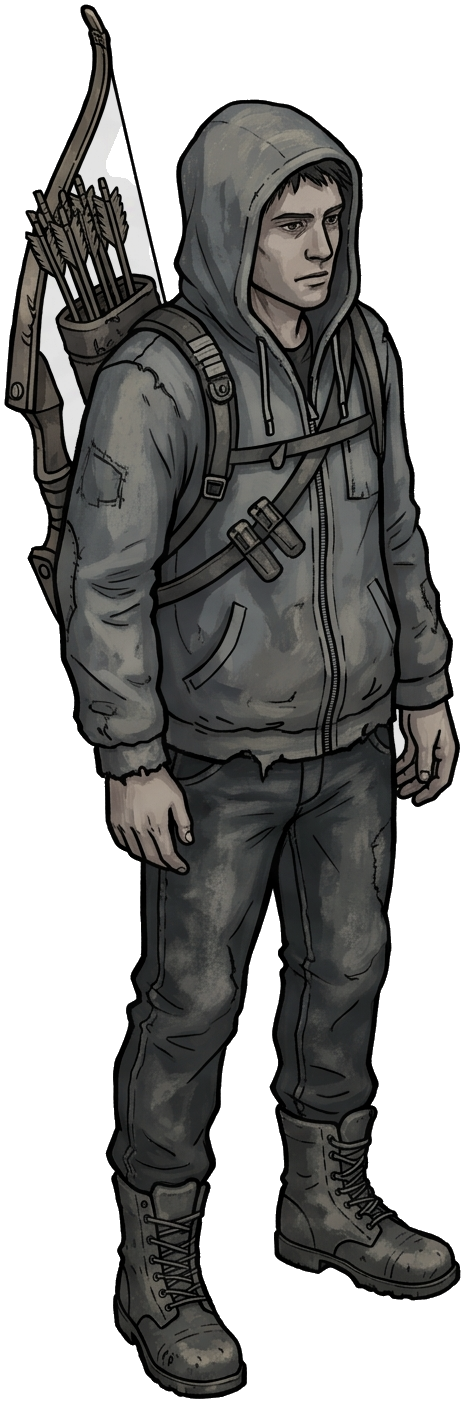
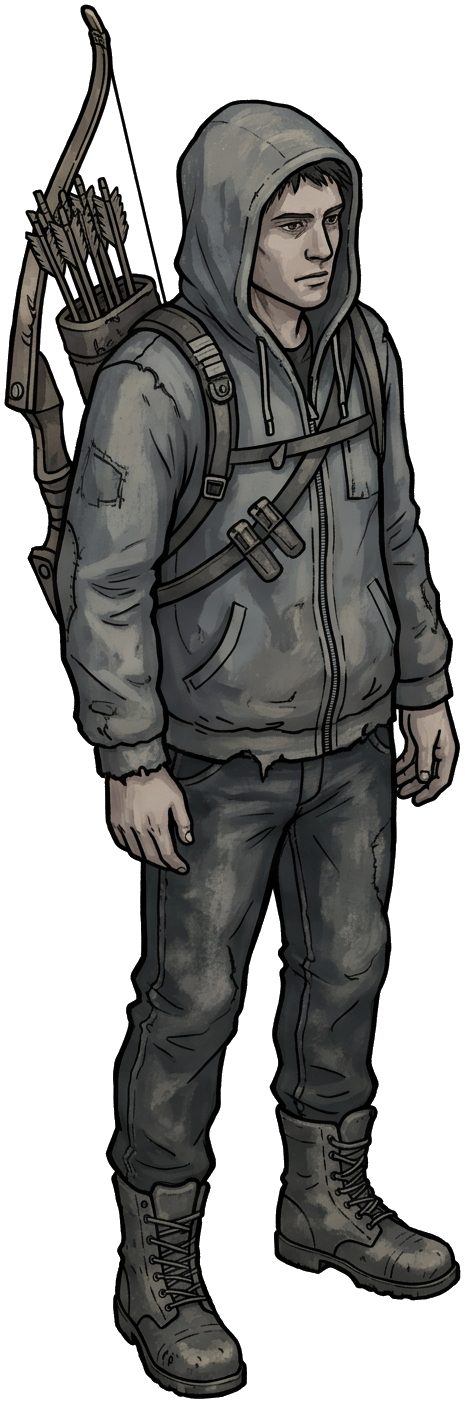
Fix sprite white artifacts, add Gemini car sprites
- process_sprite.mjs: optional global white strip pass (strip=1) for dark
  objects without intentional white details; survivor quiver/shoulder and
  dead-tree branch pockets cleaned (whiteOpaque 0.66%->0, 0.26%->0)
- survivor re-brightened (0.95/0.8)
- New Gemini sprites: rusty sedan, burned wreck, GAZelle van
  (3/4 top view, facing left) -> cars in the city render as sprites with
  heading rotation; procedural boxes remain as fallback

Changed region(s): [[0.1806, 0.0613, 0.3613, 0.2145], [0.0903, 0.1839, 0.2108, 0.3371], [0.843, 0.521, 0.8731, 0.5517]]

diff --git a/src/iso/render/renderer.js b/src/iso/render/renderer.js
@@ -264,23 +264,40 @@ export function renderWorld({
     push(car.x + w + (car.y + h), 1, () => {
       // центр машины на экране, поворот по курсу (изо-проекция вектора курса)
       const p = w2s(car.x + w / 2, car.y + h / 2);
+      const img = car.wreck
+        ? SPRTEX.car_wreck
+        : i % 3 === 2
+          ? SPRTEX.car_van
+          : SPRTEX.car_sedan;
       ctx.save();
       ctx.translate(toX(p.x), toY(p.y));
       if (car.heading !== undefined) {
-        const base =
-          car.axis === "x" ? Math.atan2(16, 32) : Math.atan2(16, -32);
         const vx = Math.cos(car.heading),
           vy = Math.sin(car.heading);
         const sAng = Math.atan2((vx + vy) * 16, (vx - vy) * 32);
-        ctx.rotate(sAng - base);
+        // спрайты Gemini смотрят влево; процедурная коробка — по базовой оси
+        ctx.rotate(
+          sAng -
+            (img
+              ? Math.PI
+              : car.axis === "x"
+                ? Math.atan2(16, 32)
+                : Math.atan2(16, -32)),
+        );
       }
-      ctx.drawImage(
-        SPR.cars[i],
-        -112 * zoom,
-        -85 * zoom,
-        224 * zoom,
-        170 * zoom,
-      );
+      if (img) {
+        const wpx = 170 * zoom,
+          hpx = wpx * (img.height / img.width);
+        ctx.drawImage(img, -wpx / 2, -hpx / 2, wpx, hpx);
+      } else {
+        ctx.drawImage(
+          SPR.cars[i],
+          -112 * zoom,
+          -85 * zoom,
+          224 * zoom,
+          170 * zoom,
+        );
+      }
       ctx.restore();
       R.drawCalls++;
     });

diff --git a/src/iso/render/assets.js b/src/iso/render/assets.js
@@ -26,6 +26,9 @@ export const SPRITE_FILES = {
   dumpster: "/assets/gen/dumpster.png",
   tires: "/assets/gen/tires.png",
   barrel: "/assets/gen/barrel.png",
+  car_sedan: "/assets/gen/car_sedan.png",
+  car_wreck: "/assets/gen/car_wreck.png",
+  car_van: "/assets/gen/car_van.png",
 };
 
 function loadSet(files, target) {

diff --git a/REFACTORING_PLAN.md b/REFACTORING_PLAN.md
@@ -242,7 +242,7 @@ zombie/
 - [x] 16.1 Прототип изометрического рендера (`prototype/`): тайл 64×32 = 1 м², чанки земли 8×8 тайлов, спрайты зданий с запечёнными текстурами/окнами, z-сортировка по `max(wx+wy)` футпринта, cutaway здания при входе, ночное освещение half-res с эллипсами 2:1. Замер FPS и бюджета кадра. → Кадр 0,3–6 мс при ~150 drawImage, 60 FPS, запас большой.
 - [x] 16.2 Генератор компактного города (в `prototype/iso.js`, сид `?seed=`, размер `?nb=`): сетка кварталов 62 м + дорога 8 м + тротуары 3 м, периметральная застройка из типовых архетипов (панель 2–3 эт., кирпич, магазин, киоск), дворы с площадками/парковкой/рабицей, уличные машины, фонари, зомби. POI-кварталы: парк, супермаркет с парковкой, школа со спортплощадкой, больница, полиция, АЗС. Город 1458×1458 м (19×19 кварталов, 1434 здания): старт 105 мс, кадр 1,2 мс, чанки с отсевом до запечки + LRU 600, твёрдые тела в пространственной сетке 16 м, дальние зомби спят.
 - [x] 16.3 Ассет-пайплайн: ~~разведка Kenney~~ → вердикт 16.11.2026: миниатюрный «игрушечный» стиль (тайлы 132×101 с толстыми блоками, здания-игрушки), для PZ-подобного масштаба не подходит; CC0 проверен. Gemini UI по `GEMINI_IMAGE_AUTOMATION.md`: `.cache/gemini-ui/generate.mjs` (одна генерация = один чат, метаданные), `batch.mjs`/`batch_sprites.mjs` (серии), `process_texture.mjs` (кроп → 512² PNG), `process_sprite.mjs` (flood fill фона с краёв + вынос белых карманов + modulate в палитру). Сгенерированы 8 текстур (асфальт, трава, грунт, тротуар, паркет, панель, кирпич, рубероид) и 9 спрайтов (тополь, мёртвое дерево, берёза, зомби, выживший, скамейка, контейнер, покрышки, бочка). В прототипе: бесшовная 2×2 зеркальная композиция, сплошная заливка земли текстурами 32 px/м, текстурные стены/крыши, спрайты с якорем низ-центр. - [ ] 16.3b Спрайты: белые артефакты у героя/деревьев (остатки фона снаружи и «карманы» внутри силуэта). **17.11: всё ещё присутствуют — у героя (плечо/колчан) и деревьев точно.** Решение: улучшить `process_sprite.mjs` (мягче порог карманов + ретушь краёв), перегенерировать безнадёжные. Плюс: машины, анимация ходьбы, квантование в мастер-палитру 32 цвета.
-- [ ] 16.4 Перенос игры на iso-рендер: решено — НОВАЯ игра на базе прототипа, старая остаётся на index.html до паритета. Сделано: `city.html` + модульный каркас `src/iso/`. Город 1,46 км, multi-page сборка и деплой. Бой заново (лук с натяжением, сегментный хит-тест, HP/смерть, укусы, кровь, трупы, тряска, возрождение). Лут/инвентарь заново: рюкзак 24 слота со стаками, мусорки/бочки с сидовым лутом, обыск по E, **действия предмета по клику на ячейку** (съесть/перевязать/выбросить), стрелы — расходник. Выживание заново: часы, рассвет/закат, ночное освещение от часов, голод и голодный урон, тушёнка/бинт, ночной приток зомби, ночью быстрее ×1,35. Крафт заново: панель на C, рецепты данными (`src/iso/data/recipes.js`): стрелы (дерево+лом), бинт (ткань×2), факел (дерево+ткань). Спавн безопасен 60 м. Дальше: машины → баланс → NPC/лагеря. Сохранения: `src/iso/persistence/save.js`, схема v2 (квесты; миграция из v1), автосейв 15 с, `?new=1` — новая игра. Квесты: `src/iso/data/quests.js` + `src/iso/systems/quests.js` — цепочка m1–m5 к POI (события kill/loot/visit, награды, маркер цели).
+- [ ] 16.4 Перенос игры на iso-рендер: решено — НОВАЯ игра на базе прототипа, старая остаётся на index.html до паритета. Сделано: `city.html` + модульный каркас `src/iso/`. Город 1,46 км, multi-page сборка и деплой. Бой заново (лук с натяжением, сегментный хит-тест, HP/смерть, укусы, кровь, трупы, тряска, возрождение). Лут/инвентарь заново: рюкзак 24 слота со стаками, мусорки/бочки с сидовым лутом, обыск по E, **действия предмета по клику на ячейку** (съесть/перевязать/выбросить), стрелы — расходник. Выживание заново: часы, рассвет/закат, ночное освещение от часов, голод и голодный урон, тушёнка/бинт, ночной приток зомби, ночью быстрее ×1,35. Крафт заново: панель на C, рецепты данными (`src/iso/data/recipes.js`): стрелы (дерево+лом), бинт (ткань×2), факел (дерево+ткань). Спавн безопасен 60 м. Дальше: баланс → NPC/лагеря → интерьеры зданий. Сохранения: `src/iso/persistence/save.js`, схема v2 (квесты; миграция из v1), автосейв 15 с, `?new=1` — новая игра. Квесты: `src/iso/data/quests.js` + `src/iso/systems/quests.js` — цепочка m1–m5 к POI (события kill/loot/visit, награды, маркер цели). Машины: `src/iso/systems/vehicles.js` — посадка E, газ/руль WASD, бак в литрах, заправка F из инвентаря, таран зомби (идёт в квесты), урон от столкновений; багажник (T) — TODO.
 
 ## Обязательные проверки
 
